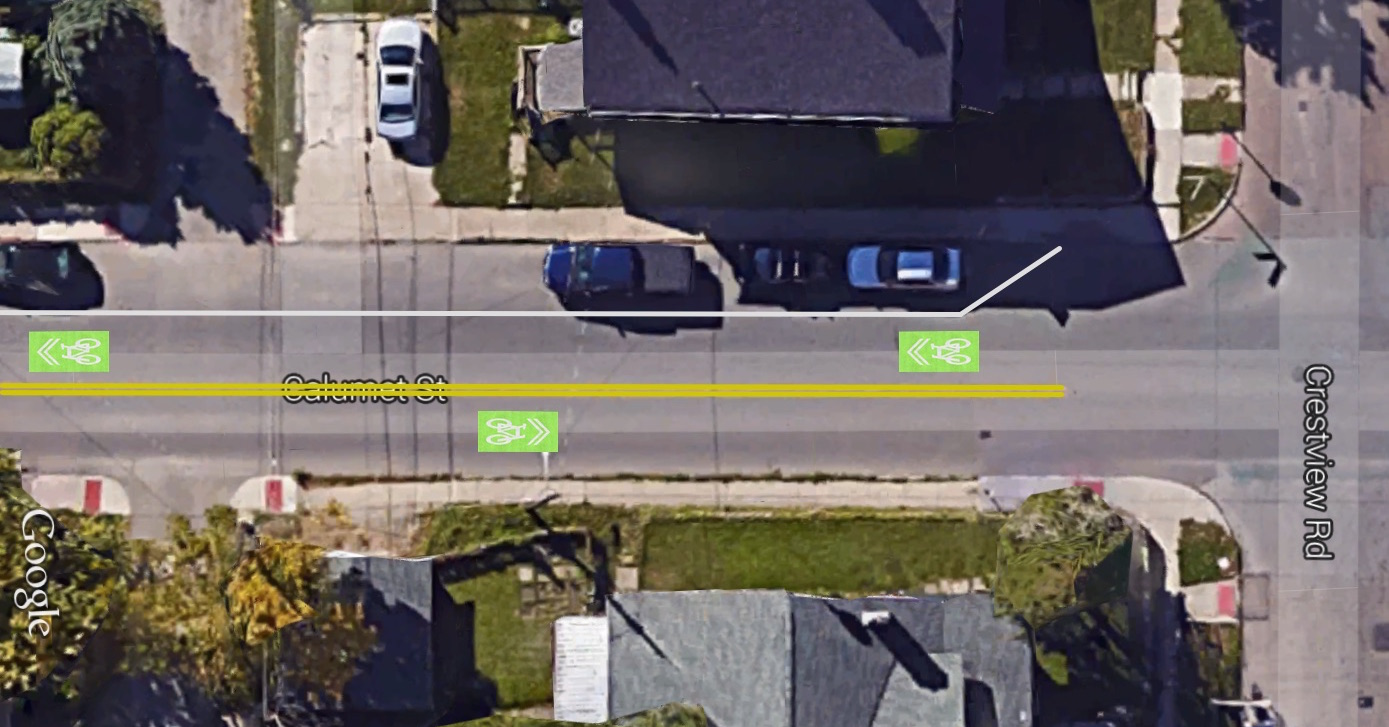
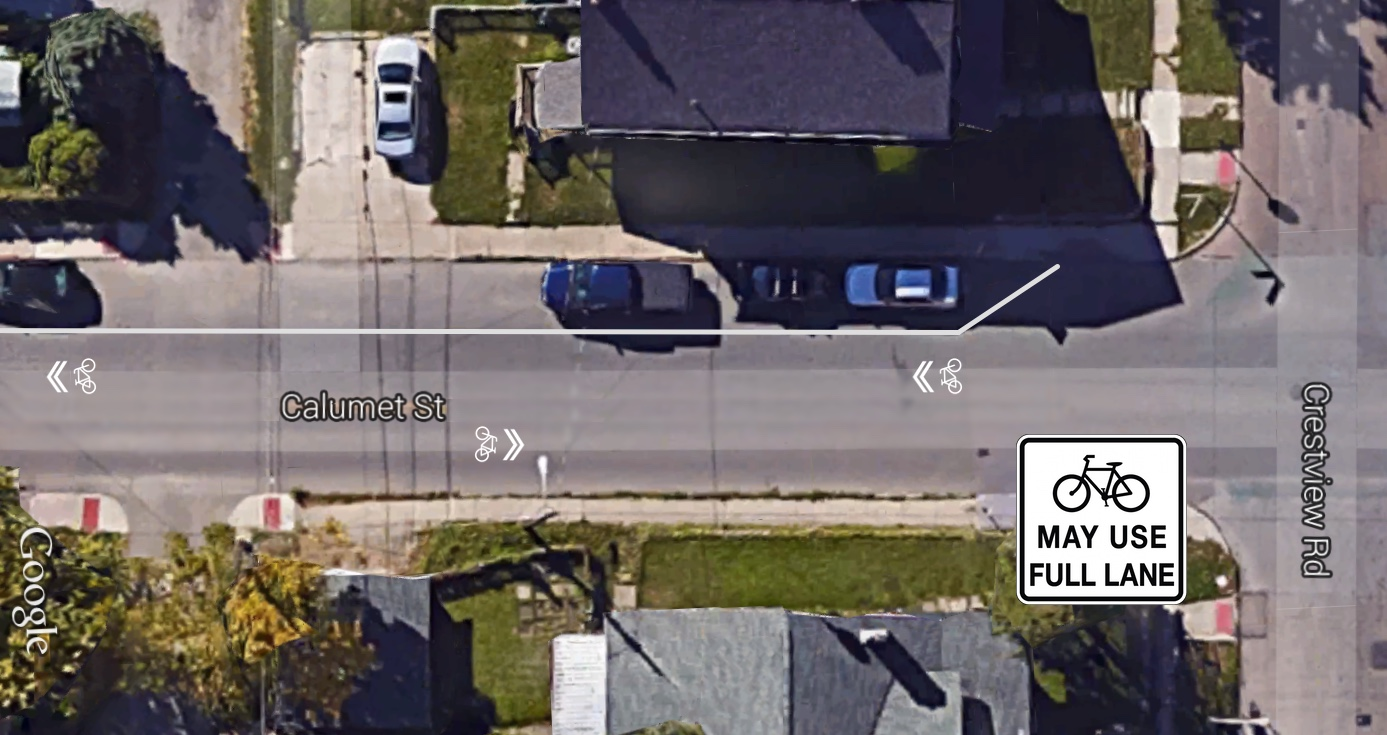
Update phase-1 design
Design update to align better with current best-practices and feedback from the city.

diff --git a/_posts/2015-05-08-phase-1-route-and-design.md b/_posts/2015-05-08-phase-1-route-and-design.md
@@ -1,6 +1,6 @@
 ---
 layout: post
-last-modified: '2015-05-03T12:00:00-04:00'
+last-modified: '2015-09-11T12:00:00-04:00'
 
 title: "Phase 1 Route and Design"
 cover_image: clintonville-aerial-view.jpg
@@ -72,26 +72,44 @@ Greenways so that minimal changes will be required.
 
 Calumet Street <span class='muted smaller'>('A' on map)</span> is the biggest challenge on the
 Neighborhood Greenways route. Traffic volume is 2200 cars/day - twice what we would like. 85th
-percentile speed is 33mph in some places - well above our goal of 25mph. Calumet is a neighborhood
-collector, which means traffic restrictions would be difficult. Because on-street parking is widely
-used, we cannot make room for bike lanes.
+percentile speed is 33mph in some places - well above our goal of 25mph. Because of the windy
+nature of the road and higher traffic volumes, unsafe passes are common, making this road
+unsuitable in it's current condition for families and other risk-averse people.
 
-<b>Create well-defined travel lanes.</b> Stripe out an 8' parking lane with a white line. Add a yellow
-center line. This will define the travel lanes and visually narrow the road, which has been shown to
-slow down traffic.
+Calumet is a neighborhood collector, which means traffic restrictions will be difficult. Because
+on-street parking is widely used, especially south of Weber, we cannot make room for bike lanes.
 
-Consider using a dashed yellow line where it's safe to pass people biking and double yellow line
-elsewhere.
+<b>Visually narrow road.</b> The wider sections of Calumet lead to faster speeds. One option
+is to stripe out an 8' parking lane. Also evaluate for green infrastructure such as curb bump
+outs in coordination with Columbus Blueprint.
 
-<b>Add green sharrows</b> at 75 to 100 foot intervals. Sharrows on a green background are more
-effective than standard sharrows and are recommended for roads with higher traffic volume. More
-frequent sharrows are also advised for roads with higher traffic volume and speed.
+<b>Remove yellow center line.</b> A yellow center line encourages higher speeds and more
+dangerous passing behavior. Use short sections of yellow center lines only at major intersections
+(Arcadia, Weber, Broadway) and around blind curves.
+
+<b>Use more frequent sharrows.</b> More frequent sharrows are advised for roads with higher
+traffic volume and speed. Consider sharrows at 75 to 100 foot intervals.
+
+<b>Add "Bikes may use full lane" signs.</b> These signs are the recommended standard for
+clarifying that bikes are allowed full use of the road. "Share the road" signs should not
+be used.
 
 <div class="full rounded shadow"><img src="/images/phase-1/calumet.jpg"></div>
 
+## Intersection of Torrence Road and High Street
+
+Traffic at this intersection <span class='muted smaller'>('B' on map)</span> increased
+significantly after the new Starbucks opened. Although drivers are fairly cautious and aware
+of people biking and walking, the large volume of cars can make navigating this intersection
+tricky.
+
+<b>Add ladder-style crosswalks</b>. More prominent crosswalks will highlight the Neighborhood
+Greenways crossing, raise awareness of the increased bike and pedestrian traffic, and make
+people walking and biking feel more comfortable.
+
 ## Intersection of Milton, Northmoor, and Montrose Way
 
-This 6-way intersection <span class='muted smaller'>('B' on map)</span> is large and has numerous
+This 6-way intersection <span class='muted smaller'>('C' on map)</span> is large and has numerous
 conflict points. While traffic volume is generally low, it can still be tricky to navigate with bikes,
 cars and pedestrians all using the same space.
 
@@ -102,19 +120,19 @@ the circle.
 
 ## Intersection of Milton and Hollenback
 
-This intersection <span class='muted smaller'>('C' on map)</span> is difficult to navigate because
+This intersection <span class='muted smaller'>('D' on map)</span> is difficult to navigate because
 it's offset with the exit from the library. Traffic is generally slow and people navigate cautiously.
 The most common conflict is between people turning left from Milton onto Hollenback and people exiting
 the library.
 
 Long-term this intersection should be re-aligned with the library exit and converted to a 4-way stop.
-For Phase 1 <b>consider adding green sharrows</b> to highlight the presence of bikes.
+For Phase 1 <b>consider adding additional sharrows through the turn</b> to highlight the presence of bikes.
 
 <div class="full rounded shadow"><img src="/images/phase-1/intersection-of-milton-and-hollenback.jpg"></div>
 
 ## Hollenback
 
-Hollenback <span class='muted smaller'>('D' on map)</span> is a park road. Traffic volume is sometimes
+Hollenback <span class='muted smaller'>('E' on map)</span> is a park road. Traffic volume is sometimes
 high, especially on evenings with children's soccer. However speeds are low and people are alert.
 
 There is a side path that parallels Hollenback. This path is narrow and the surface is
@@ -128,12 +146,12 @@ Hollenback and should be marked with sharrows.
 
 ## Shelter house parking lot
 
-The route past the shelter house parking lot <span class='muted smaller'>('E' on map)</span>
+The route past the shelter house parking lot <span class='muted smaller'>('F' on map)</span>
 is confusing. It appears the road goes straight into the parking lot. There are two parking
 lot exits with stop signs, but because of the curvy nature of the road, it's not clear who has
 the right of way.
 
-<b>Use sharrows or a white edge line to define the travel lane.</b> Add stop bars at parking
+<b>Use sharrows and a white edge line to define the travel lane.</b> Add stop bars at parking
 lot exits to clarify right of way.
 
 <div class="full rounded shadow"><img src="/images/phase-1/shelter-house-parking-lot.jpg"></div>
@@ -141,28 +159,35 @@ lot exits to clarify right of way.
 ## Exit to Olentangy Blvd
 
 Replace gate with bollards, allowing people biking to pass through, or add a new bike
-exit following the desired direction of travel <span class='muted smaller'>('F' on map)</span>
+exit following the desired direction of travel <span class='muted smaller'>('G' on map)</span>
 
 <div class="full rounded shadow"><img src="/images/phase-1/exit-to-olentangy.jpg"></div>
 
 ## Intersection of Olentangy Blvd and Henderson Road
 
-The light cycle at this intersection <span class='muted smaller'>('G' on map)</span> is very long.
+The light cycle at this intersection <span class='muted smaller'>('H' on map)</span> is very long.
 This adds significant delay to trips on the Neighborhood Greenways route. It also causes a large
 number of cars to queue up on Olentangy Blvd during rush hour. <b>Evaluate shortening the light
 cycle</b> to reduce delay for Neighborhood Greenways traffic.
 
-<b>Evaluate the intersection for bike boxes</b>. Generally people drive cautiously at this
-intersection and there are very few conflicts between cars, bikes and pedestrians. However
-as the Neighborhood Greenways traffic increases, bike boxes would allow people biking to clear
-the intersection quickly at the start of the light cycling instead of mixing with a line
-of cars.
+There is a problem with drivers bullying people on bikes at this intersection. Drivers that
+want to turn right don't like waiting behind bikes that are going straight and sometimes honk
+and yell at them to "get out of the road". Bikes often go up on the sidewalk ramps to wait
+which causes problems at they re-integrate into the traffic flow when the light changes.
+
+<b>Evaluate the intersection for bike boxes</b>. Bike boxes would create space for bikes
+and would clearly communicate that people on bikes should wait in the road and not on the
+sidewalk ramps.
+
+<b>Add ladder-style crosswalks</b>. More prominent crosswalks will highlight the Neighborhood
+Greenways crossing, raise awareness of the increased bike and pedestrian traffic, and make
+people walking and biking feel more comfortable.
 
 <a id='weisheimer'></a>
 
 ## Intersection of Weisheimer Road and High Street
 
-This intersection is offset <span class='muted smaller'>('H' on map)</span>. However, since there
+This intersection is offset <span class='muted smaller'>('I' on map)</span>. However, since there
 is a 4-way traffic signal, it would be possible to <b>re-align the intersection for bikes</b>. This
 could be done by converting one of the bank exit lanes to a two-way bike lane, or by adding a two-way
 bike lane to the north of the bank exit. The north-east corner of Weisheimer and High is being
@@ -172,6 +197,9 @@ A second option would be to <b>improve the sidewalk on the east side of High Str
 bikes along the sidewalk in front of the business. This creates a conflict point with cars
 turning from High Street onto E. Weisheimer Road. The conflict could be eliminated with a choker
 entrance preventing turns onto E. Weisheimer Rd.
+
+In either case <b>add ladder-style crosswalks</b>. More prominent crosswalks will highlight the Neighborhood
+Greenway crossing and make people walking and biking feel more comfortable.
 
 <div class="full rounded shadow"><img src="/images/phase-1/intersection-of-weisheimer-and-high.jpg"></div>
 
@@ -183,15 +211,15 @@ entrance preventing turns onto E. Weisheimer Rd.
 -   <b>Way-marking sharrow</b> - use to indicate left or right turn ahead.
 -   <b>Green sharrow</b> - use on roads with higher volume to emphasize shared use lanes.
 -   <b>Gateway sharrow</b> - use one gateway sharrow after each major intersection to alert road
-    users to the presence of the neighborhood greenway.
--   <b>Sharrow flower</b> - use to mark intersections of neighborhood greenway routes to alert
+    users to the presence of the Neighborhood Greenways.
+-   <b>Sharrow flower</b> - use to mark intersections of Neighborhood Greenways routes to alert
     people that they have a choice to make.
 
 <div class="full rounded shadow"><img src="/images/phase-1/road-markings.jpg"></div>
 
 ## Street signs and way-finding signs
 
-Branded street signs and way-finding signs add awareness of the neighborhood greenway route.
+Branded street signs and way-finding signs add awareness of the Neighborhood Greenways route.
 Examples of neighborhood greenway street signs.
 
 <div class="full rounded shadow"><img src="/images/phase-1/street-signs.jpg"></div>
@@ -199,6 +227,28 @@ Examples of neighborhood greenway street signs.
 Examples of neighborhood greenway way-finding.
 
 <div class="full rounded shadow"><img src="/images/phase-1/way-finding-signs.jpg"></div>
+
+# Traffic volume targets
+
+Based on guidance from engineers in Portland, we feel that targeting traffic volumes of under
+1000 cars/day is essential to making a neighborhood greenway safe enough for all ages
+and abilities.
+
+Below are the guidelines that Portland is proposing to become official policy for their
+neighborhood greenways:
+
+- 1,000 autos per day is the desired maximum.
+- 1,500+ autos per day is acceptable, but diversion is considered on a case by case basis and
+  recommended if there is an expectation that other changes, or the greenway’s location, will attract
+  significant traffic to the project street.
+- More than 2,000 autos per day necessitates diversion in some form if the neighborhood greenway
+  street is to be a shared space with auto traffic. This is primarily because Portland has a desired
+  maximum speed of 20 mph, and state law permits us to reduce the residential statutory speed of 25
+  mph by 5 mph on greenway streets, but only if the residential street has less than 2,000 autos per day.
+
+This guidance is based in part on research documented in
+<a href='http://transweb.sjsu.edu/PDFs/research/1005-low-stress-bicycling-network-connectivity.pdf' target='_blank'>Low-Stress Bicycling and Network Connectivity</a>
+<span class='muted' style='font-size:80%'>(PDF 2.4 MB)</span>
 
 # Other cities' design guidelines
 
@@ -211,3 +261,5 @@ their neighborhood greenway design guidelines are linked below.
 **Berkeley, CA**
 <a href='http://www.cityofberkeley.info/Public_Works/Transportation/Bicycle_Boulevard_Guidelines.aspx' target='_blank'>Bicycle Boulevard Design Tools and Guidelines</a><br>
 
+<b>Edit:</b> This post was updated on 9/11/2015 to align with current best practices and
+feedback from the city.
